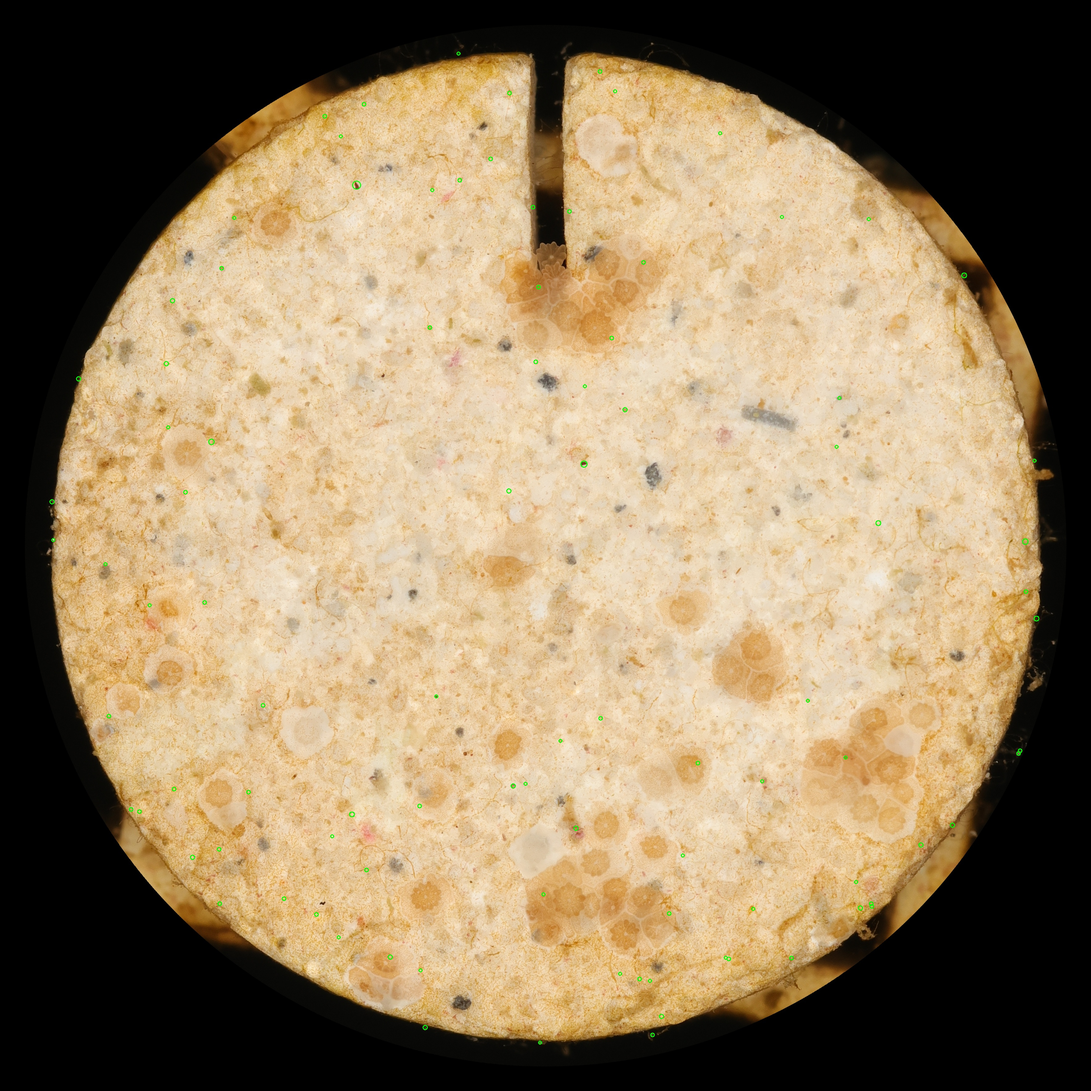
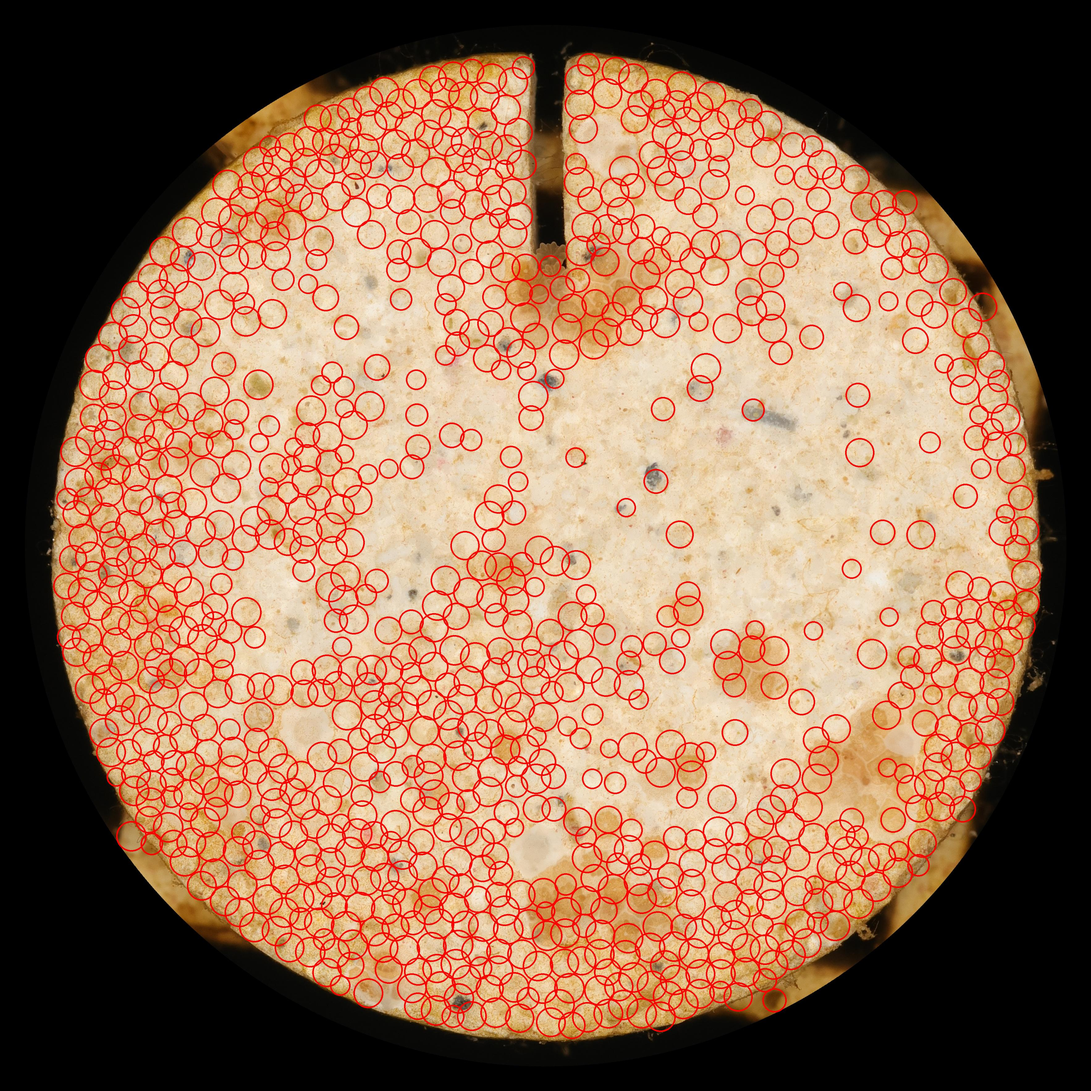
Added modified Hough Transform code and output

diff --git a/4.Hough_Transform/hough.py b/4.Hough_Transform/hough.py
@@ -156,7 +156,7 @@ print("The image with detected coral babies has been saved as 'coral_babies_dete
 
 '''
 ###########################################################################################################################
-'''
+
 # METHOD 4
 
 from PIL import Image, ImageDraw
@@ -165,7 +165,7 @@ import cv2
 import numpy as np
 
 # Load the image
-image_path = "original_images/32_T2_6_timepoint0.jpg"
+image_path = "original_images/tahoe.JPG"
 image = Image.open(image_path)
 
 # Convert image to grayscale for easier processing
@@ -177,11 +177,11 @@ circles = cv2.HoughCircles(
     gray,
     cv2.HOUGH_GRADIENT,
     dp=1.2,
-    minDist=15,
+    minDist=55,
     param1=50,
-    param2=30,
-    minRadius=5,
-    maxRadius=20
+    param2=35,
+    minRadius=60,
+    maxRadius=80
 )
 
 # Create a copy of the image to draw the detections
@@ -194,18 +194,21 @@ if circles is not None:
     circles = np.uint16(np.around(circles))
     detected_count = circles.shape[1]
     for i in circles[0, :]:
-        draw.ellipse(
-            [
-                (i[0] - i[2], i[1] - i[2]),
-                (i[0] + i[2], i[1] + i[2])
-            ],
-            outline="red",
-            width=2
-        )
+        # Validate coordinates to avoid overflow
+        x0, y0 = max(i[0] - i[2], 0), max(i[1] - i[2], 0)  # Top-left corner
+        x1, y1 = min(i[0] + i[2], image.width), min(i[1] + i[2], image.height)  # Bottom-right corner
+
+        # Only draw if the coordinates are valid
+        if x1 > x0 and y1 > y0:
+            draw.ellipse(
+                [(x0, y0), (x1, y1)],
+                outline="red",
+                width=5
+            )
 
 # Save the output image as JPG
-output_image_path = '4.Hough_Transform/method4_1.jpg'
-output_image.convert("RGB").save(output_image_path, "JPEG")
+output_image.convert("RGB").save('4.Hough_Transform/tahoe.JPG', "JPEG")
+print(f"Circles detected: {detected_count}")
 
 # Show the result and detected count
 plt.figure(figsize=(8, 8))
@@ -214,10 +217,8 @@ plt.axis("off")
 plt.title(f"Detected Coral Larvae: {detected_count}")
 plt.show()
 
-print(f"Detected coral larvae: {detected_count}")
-'''
 ###########################################################################################################################
-
+'''
 # METHOD 5
 
 import cv2
@@ -344,7 +345,7 @@ if __name__ == "__main__":
     trial_img=cv2.imread('original_images/32_T2_6_timepoint1.JPG')
     print(trial_img.shape)
     detect_and_circle_white_spots(input_dir, output_dir)
-
+'''
 ##############################################################################################
 '''
 # METHOD 6
